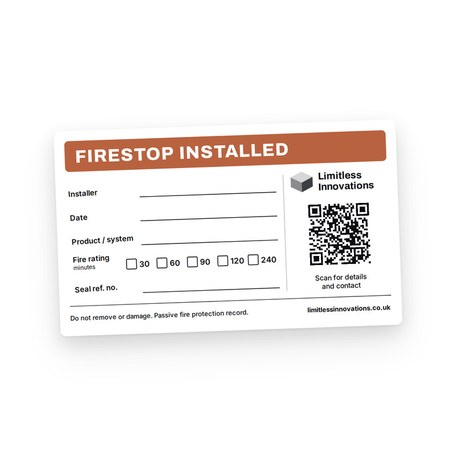
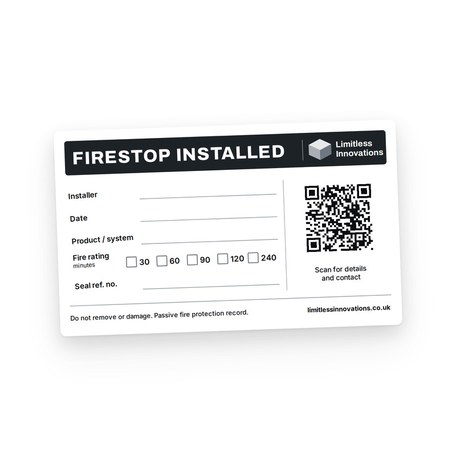
Footer on one line in white; labels product shows the new C2 design
Claude-Session: https://claude.ai/code/session_01PNHu9kG7pUCgxx6zTJvJf6

diff --git a/index.html b/index.html
@@ -936,7 +936,11 @@
   .contact-actions .row { display: flex; flex-wrap: wrap; gap: 10px; }
   .foot { background: rgba(6, 8, 11, 0.92); border-top: 1px solid var(--line); margin-top: clamp(24px, 4vh, 48px); }
   .foot .wrap { display: flex; flex-wrap: wrap; justify-content: space-between; gap: 10px 24px; padding-block: 24px 36px; font-size: 13px; color: var(--muted); }
-  .foot .group { display: flex; flex-wrap: wrap; gap: 6px 24px; }
+  .foot .group { display: flex; flex-wrap: wrap; align-items: center; gap: 6px 24px; }
+  /* Everything on one line with the company name, same white as the name */
+  .foot .wrap { align-items: center; color: var(--ink); }
+  .foot .brand { display: inline-flex; align-items: center; }
+  @media (min-width: 700px) { .foot .wrap { padding-right: 96px; } }   /* clear of the round chat button */
   .foot .wrap { padding-bottom: calc(36px + env(safe-area-inset-bottom, 0px)); }
 
   /* ---------- Phones: a shorter page. Materials and parts lists fold away, the shop shows six products
@@ -2129,7 +2133,7 @@ const SITE = {
       what: "Digital gauge that measures cured coating thickness on steel, for the handover record.",
       specs: [["Reads", "Ferrous and non-ferrous, 0 to 1500 µm"], ["Use", "Signing off intumescent coating thickness"], ["Why", "Stores readings by member"]] },
     { id: "tool-labels", category: "tools", group: "Marking and inspection", brand: "Limitless Innovations", name: "Firestop identification labels, 100 × 60 mm", image: "images/products/tool-labels.jpg",
-      what: "Our own write-on labels: installer, date, system, fire rating and seal number, with a QR code to our contact page.",
+      what: "Our own write-on labels for fire, acoustic, or fire and acoustic seals: installer, date, system, rating and seal number, with a QR code to our contact page.",
       specs: [["Pack", "Roll of 100"], ["Use", "Every penetration seal, so the inspection can find it"], ["Why", "Survives dust and damp"]] },
     { id: "tool-torch", category: "tools", group: "Marking and inspection", brand: "Nebo", name: "Rechargeable LED head torch", image: "images/products/tool-torch.jpg",
       what: "Bright, hands-free light for risers and ceiling voids where seals get photographed.",
